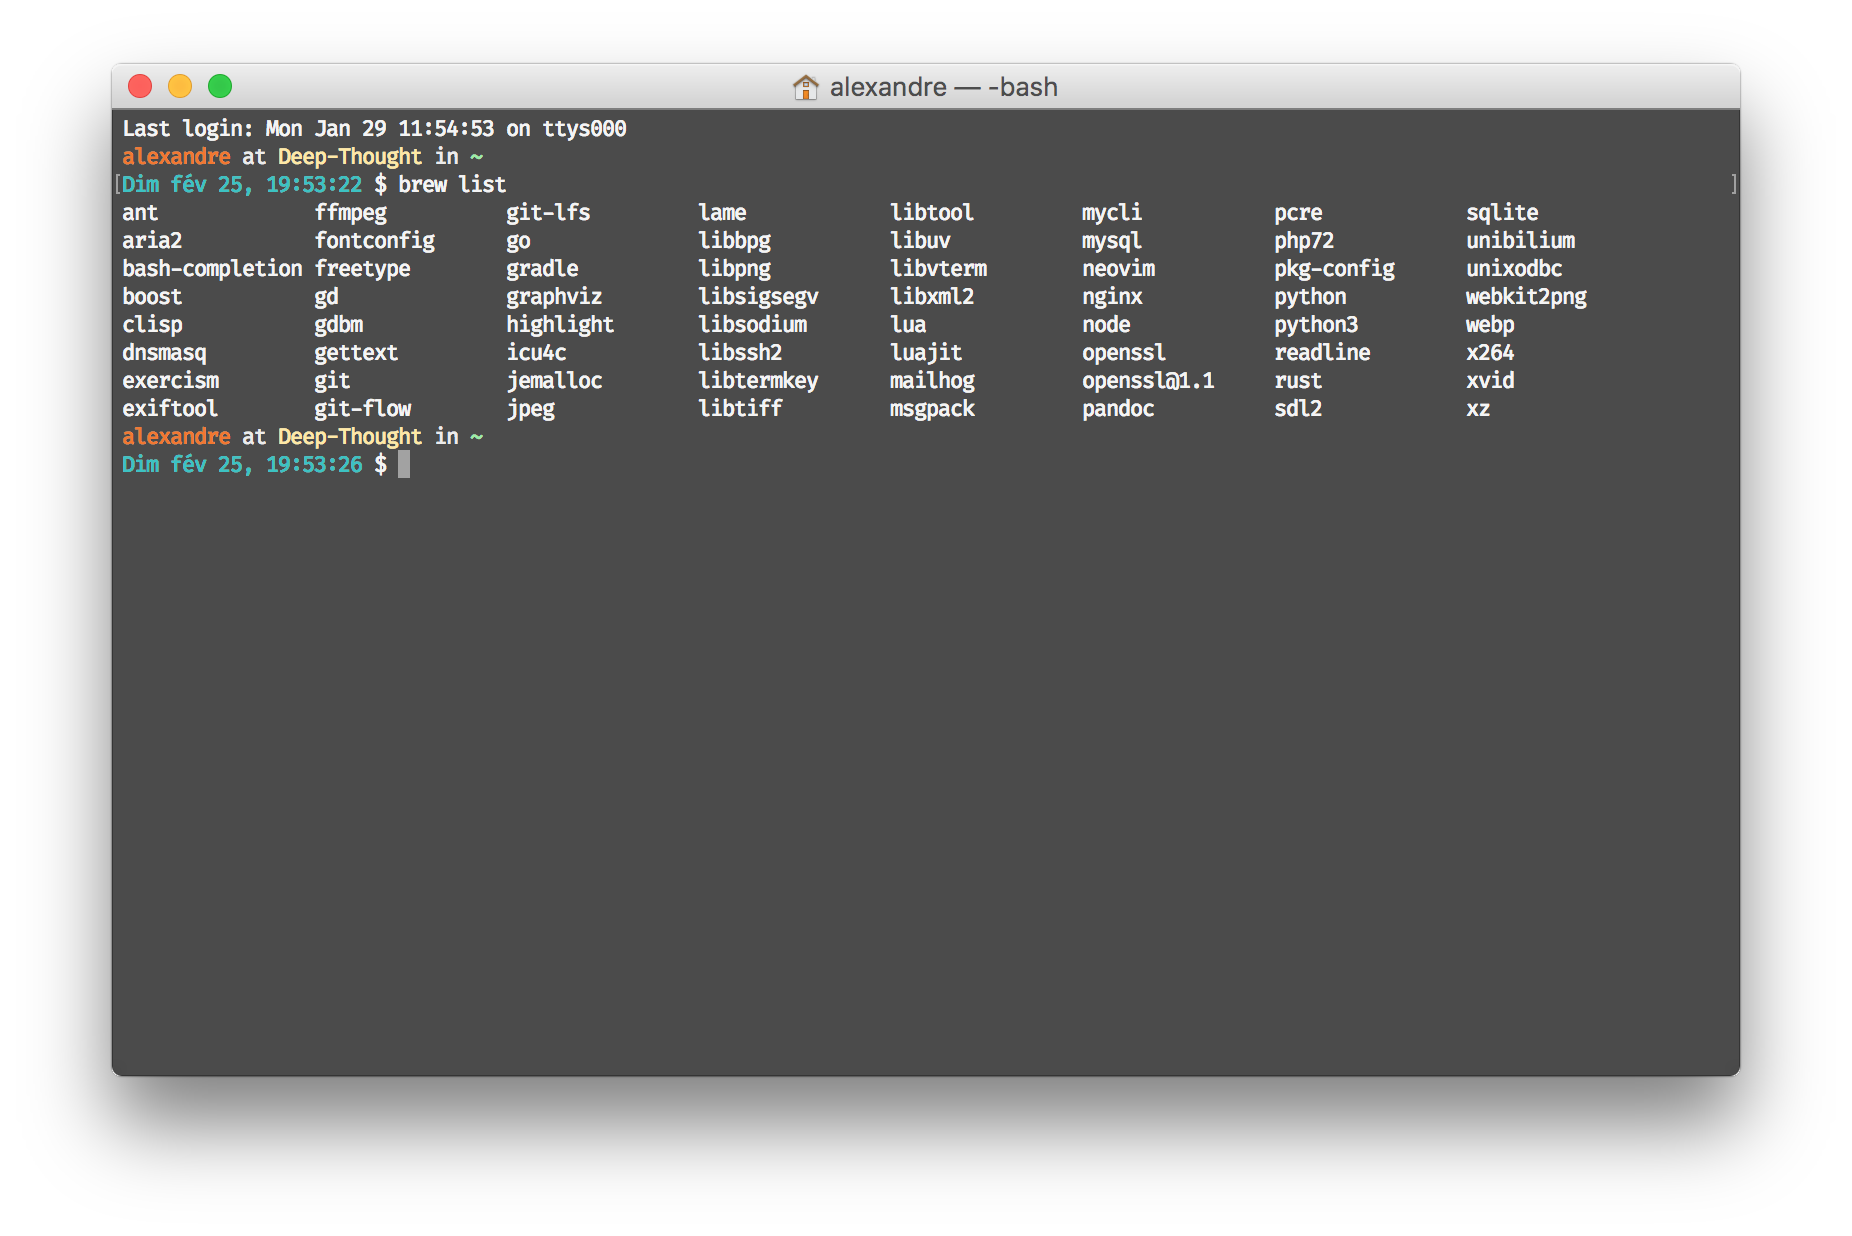
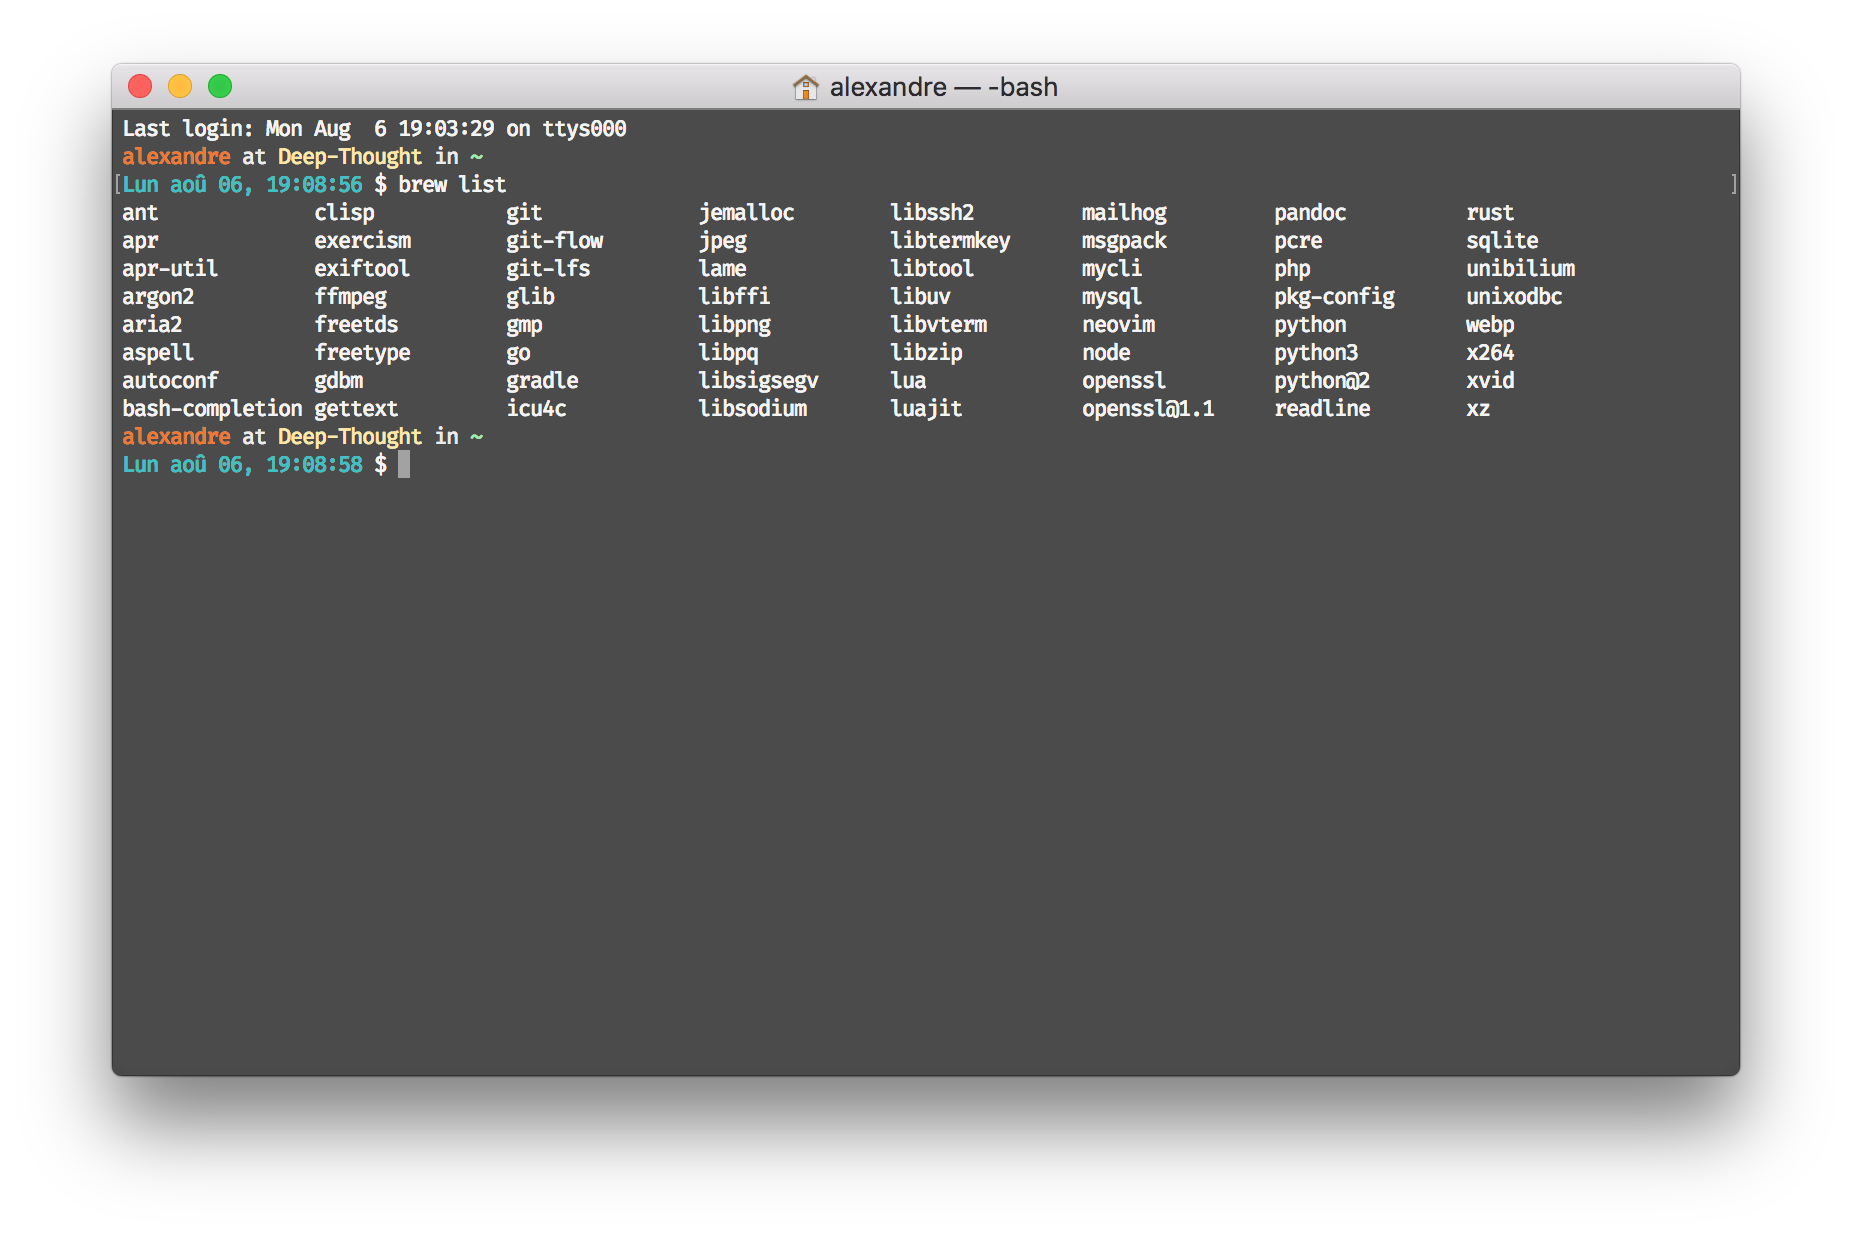
:bento: :art: Update homebrew list (+ add dependencies)

diff --git a/Configurations/macApps.md b/Configurations/macApps.md
@@ -20,7 +20,6 @@
 - [1Blocker - Block ads, tracking scripts, anything](https://1blocker.com)
 - [Affinity Designer](https://affinity.serif.com/en-gb/designer/)
 - Better Rename 10
-- [CloudMounter: encrypt cloud files, save disk space](https://mac.eltima.com/mount-cloud-drive.html)
 - [ColorSlurp](http://colorslurp.com)
 - eBookBinder
 - [Expressions](http://www.apptorium.com/products/expressions)
@@ -39,7 +38,6 @@
 - StuffIt 16
 - [Textastic](https://www.textasticapp.com/mac.html)
 - [Wire — Private Messenger](https://wire.com/en/)
-- [Wunderlist](https://www.wunderlist.com)
 - [Xcode](https://developer.apple.com/xcode/)
 
 ## Homebrew
@@ -49,15 +47,11 @@
 > ```brew info packageName```
 
 - [Ant](https://ant.apache.org) - ```brew install ant```
-    <!-- > Apache Ant is a Java library and command-line tool whose mission is to drive processes described in build files as targets and extension points dependent upon each other. -->
 - [aria2](https://aria2.github.io) - ```brew install aria2```
-    <!-- > aria2 is a lightweight multi-protocol & multi-source command-line download utility. It supports HTTP/HTTPS, FTP, SFTP, BitTorrent and Metalink. aria2 can be manipulated via built-in JSON-RPC and XML-RPC interfaces. -->
-- [Bash-Completion](https://github.com/scop/bash-completion) - ```brew install bash-completion```
-    <!-- > Programmable completion functions for bash -->
+- [bash-completion](https://github.com/scop/bash-completion) - ```brew install bash-completion```
 - [Cask](https://caskroom.github.io) - ```brew tap caskroom/cask```
-    <!-- > Homebrew-Cask extends Homebrew and brings its elegance, simplicity, and speed to macOS applications and large binaries alike. -->
-- [CLISP](http://clisp.org) - ```brew install clisp```
-    <!-- > This is GNU CLISP - an ANSI Common Lisp Implementation -->
+- [CLISP](http://clisp.org) - ```brew install clisp```  
+	> Dependencies: **libsigsegv, readline**
 - [Exercism](http://exercism.io) - ```brew install exercism```
     <!-- > Level up your programming skills -->
     > ⚠ May have changed...
@@ -75,74 +69,47 @@
         fi
         ```
 - [ExifTool](http://owl.phy.queensu.ca/~phil/exiftool/) - ```brew install exiftool```
-    <!-- > Read, Write and Edit Meta Information! -->
-- [FFmpeg](https://www.ffmpeg.org) - ```brew install ffmpeg```
-    <!-- > FFmpeg is the leading multimedia framework, able to decode, encode, transcode, mux, demux, stream, filter and play pretty much anything that humans and machines have created. -->
+- [FFmpeg](https://www.ffmpeg.org) - ```brew install ffmpeg```  
+	> Dependencies: **lame, x264, xvid**
 - [git](https://git-scm.com) - ```brew install git```
 - [git-flow](https://github.com/nvie/gitflow) - ```brew install git-flow```
-    <!-- > A collection of Git extensions to provide high-level repository operations for Vincent Driessen's branching model. -->
 - [Git LFS](https://git-lfs.github.com) - ```brew install git-lfs```
-    <!-- > An open source Git extension for versioning large files -->
 - [Go](https://golang.org/) - ```brew install go```
-    <!-- > Go is an open source programming language that makes it easy to build simple, reliable, and efficient software. -->
 - [Gradle](https://www.gradle.org/) - ```brew install gradle```
-    <!-- > Gradle is an open source build automation system that builds upon the concepts of Apache Ant and Apache Maven and introduces a Groovy-based domain-specific language (DSL) instead of the XML form used by Apache Maven for declaring the project configuration. -->
-- GraphViz, needed for [PlantUML](http://plantuml.com)
-```
-brew install libtool
-brew link libtool
-brew install graphviz
-brew link --overwrite graphviz
-```
 - [Lua](http://www.lua.org) - ```brew install lua```
-    <!-- > Lua is a powerful, efficient, lightweight, embeddable scripting language. -->
 - [MailHog](https://github.com/mailhog/MailHog) - ```brew install mailhog```
-    <!-- > Web and API based SMTP testing -->
 - [mas](https://github.com/mas-cli/mas) - ```brew install mas```
-    <!-- > Mac App Store command line interface -->
-- [mycli](https://www.mycli.net) - ```brew install mycli```
-	<!-- > MyCLI is a command line interface for MySQL, MariaDB, and Percona with auto-completion and syntax highlighting. -->
+- [mycli](https://www.mycli.net) - ```brew install mycli```  
+	> Dependencies: **gdbm, readline, sqlite**
 - [MySQL](https://www.mysql.com) - ```brew install mysql```
-    <!-- > MySQL is an open-source relational database management system (RDBMS). -->
-- [Neovim](https://neovim.io) - ```brew install neovim```
-    <!-- > Literally the future of vim. -->
+- [Neovim](https://neovim.io) - ```brew install neovim```  
+	> Dependencies: **gettext, jemalloc, libtermkey, libuv, libvterm, luajit, msgpack, unibilium**
 - [Node.js](https://nodejs.org) & npm - ```brew install node npm```
-    <!-- > Node.js® is a JavaScript runtime built on Chrome's V8 JavaScript engine. Node.js uses an event-driven, non-blocking I/O model that makes it lightweight and efficient. -->
 - [OpenSSL](https://openssl.org/) - ```brew install openssl```
-    <!-- > OpenSSL is a software library for applications that secure communications over computer networks against eavesdropping or need to identify the party at the other end. -->
 - [OpenSSL 1.1](https://openssl.org/) - ```brew install openssl@1.1```
-    <!-- > Last version of OpenSSL. -->
 - [Pandoc](http://pandoc.org) - ```brew install pandoc```
-    <!-- > If you need to convert files from one markup format into another, pandoc is your swiss-army knife. -->
-- [PHP 7.2](https://secure.php.net) - ```brew install php72```
-    <!-- > Last version of PHP, a server-side scripting language designed primarily for web development but also used as a general-purpose programming language. -->
+- [PHP 7.2](https://secure.php.net) - ```brew install php@7.2```  
+	> Dependencies: **apr, apr-util, argon2, aspell, autoconf, freetds, libpng, freetype, libffi, pcre, glib, gmp, jpeg, libpq, libsodium, libzip, libtool, unixodbc, webp**
+- Python  
+	> Dependencies: **gdbm, readline, sqlite, xz**
 - [Python3](https://www.python.org) - ```brew install python3```
-    <!-- > Python is a programming language that lets you work quickly and integrate systems more effectively. -->
     - **pip3:**
         - PEP8 - ```pip install pytest-pep8```
-            <!-- > PEP8 is the Style Guide for Python Code. -->
         - Pygments - ```pip3 install Pygments```
-            <!-- > Pygments is a syntax highlighting package written in Python. -->
         - pytest - ```pip install pytest pytest-cache```
-            <!-- > A testing tool that will give you more flexibility over running your unit tests. -->
-- [rust](https://www.rust-lang.org/) - ```brew install rust```
-    <!-- > Rust is a systems programming language that runs blazingly fast, prevents segfaults, and guarantees thread safety. -->
-- [sass](http://sass-lang.com) - ~~```brew install --devel sass/sass/sass```~~ ```sudo gem install sass```  
-	> Sass is the most mature, stable, and powerful professional grade CSS extension language in the world.
+- Python@2  
+	> Dependencies: **gdbm, readline, sqlite**
+- [rust](https://www.rust-lang.org/) - ```brew install rust```  
+	> Dependencies: **libssh2, pkg-config**
 - [tnftpd- FTP for macOS 10.13+](https://github.com/Homebrew/homebrew-core/blob/305fd893941f86bb9ec0b3d35c24eca1aa661707/Formula/tnftpd.rb) - ```brew install tnftpd```  
 	> NetBSD's FTP server (built from macOS Sierra sources).  
 	> ⚠ To install because Apple removed it in High Sierra _(macOS 10.13)_ for security. ⚠
-- [WebP](https://developers.google.com/speed/webp/) - ```brew install webp```
-    <!-- > WebP is an image format employing both lossy and lossless compression. It is currently developed by Google, based on technology acquired with the purchase of On2 Technologies. -->
 
 ### Cask (Internet)
 [Back to the beginning](#my-applications-for-macos)
 
 > To have some infos on the package (version,…), you can use this line before intalling:
 > ```brew cask info packageName```
-
-> Screenshot of ```brew list``` on 02/25/2018
-![brew list](../brewList.png "brew list")
 
 #### Apps
 
@@ -151,7 +118,7 @@ brew link --overwrite graphviz
 <!-- >- angry-ip-scanner -->
 - appcleaner
 - [atom](https://atom.io)
-- [bartender](https://www.macbartender.com)<!-- - [beardedspice](https://beardedspice.github.io) -->
+- [bartender](https://www.macbartender.com)
 - betterzipql
 - calibre
 - [cryptomator](https://cryptomator.org)
@@ -169,22 +136,14 @@ brew link --overwrite graphviz
 - [mactex](https://www.tug.org/mactex/)
 - malwarebytes-anti-malware
 - mamp
-- [macdown](http://macdown.uranusjr.com)<!-- - megasync-->
-- [Objective-See](http://objective-see.com)
-    <!-- - blockblock -->
-    - knockknock
-    <!-- - ransomwhere -->
-    - oversight
-<!-- >- onyx -->
+- [macdown](http://macdown.uranusjr.com)
 - provisionql
 - qlcolorcode
 - qlmarkdown
 - qlstephen
 - [sequel-pro](https://sequelpro.com)
-- skype
 - [spectacle](https://www.spectacleapp.com)
 - spotify
-- [the-unarchiver](https://theunarchiver.com) - _(MacPaw bought the Unarchiver Jul 27th, 2017)_
 - touchbarserver
 
 #### QuickLook Plugins
@@ -223,3 +182,7 @@ brew link --overwrite graphviz
 - [Instapaper](https://safari-extensions.apple.com/details/?id=com.instapaper.extension-CAM49M58WK)
 - [JSONAce](https://safari-extensions.apple.com/details/?id=com.jjlharrison.jsonace-635LU5M475)
 - [Stylish](https://safari-extensions.apple.com/details/?id=com.sobolev.stylish-5555L95H45)
+
+
+> Screenshot of the ```brew list``` on 08/06/2018
+![brew list](../brewList.png "brew list")
